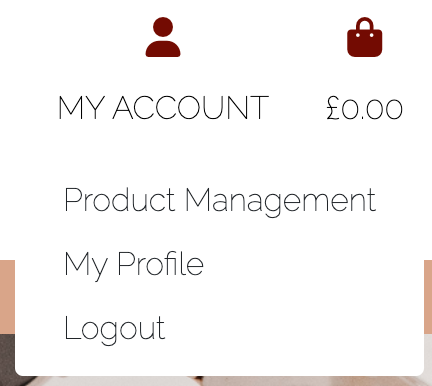
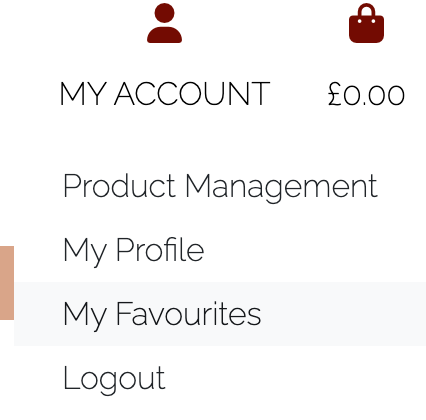
add favourites to README

diff --git a/README.md b/README.md
@@ -93,6 +93,7 @@ Please find my Kanban Board with my user stories [here](https://github.com/Saman
 3.	As a Site Owner I want to be able to delete a product so that I can remove items that are no longer available.
 4.	As a Site Owner I want to be able to send emails to customers with a subscription, notifying customers of any deals, sales, and new arrivals.
 5.	As a Site Owner, I want to be able to remove reviews from the site without deleting them so that can still be available if required.
+6. As a site owner I would like to set up discount codes to share with loyal customers. 
 
 ## Shopper
 1.	As a Shopper I want to be able to view a list of items so that I can add them to my basket.
@@ -114,6 +115,7 @@ Please find my Kanban Board with my user stories [here](https://github.com/Saman
 17. As a shopper, I want to be able to be able to contact the site owner so that I can ask about my order or for further information not contained within the Footer Pages.
 18. As a shopper, I want to be able to be able to review products purchased on the site so I can share my thoughts with other shoppers and the business.
 19. As a shopper, I want to be able to be able to edit and remove my reviews of products purchased so I can share or remove my reviews if my opinions change.
+20. As a shopper I would like to save items so that I can return to them to purchase later.
 
 # Scope
 
@@ -320,7 +322,11 @@ Users are also able to subscribe to receive the Clay & Fire Jewellery Newsletter
 
 ## Product Details 
 
-<img src="assets/readme_images/product-details.png" width="75%">
+<img src="assets/readme_images/add-favourites.png" width="75%">
+
+## Product Favourited 
+
+<img src="assets/readme_images/added-favourites.png" width="50%">
 
 ## Product Review
 
@@ -341,6 +347,10 @@ Not logged in and without reviews:
 ## Delete Review Confirmation
 
 <img src="assets/readme_images/delete-review.png" width="50%">
+
+## Favourited Products (Wishlist)
+
+<img src="assets/readme_images/my-favourites.png" width="75%">
 
 ## Shopping Bag
 
@@ -426,7 +436,6 @@ I created a basic Favicon for this project using [Canva](https://www.canva.com/)
 # Features to be Implemented
 The following features can be implemented to enhance the project:
 
-- Save items to favourites.
 - Instagram Carousel to show products bought by the shoppers.
 - Featured items on the homepage.
 
